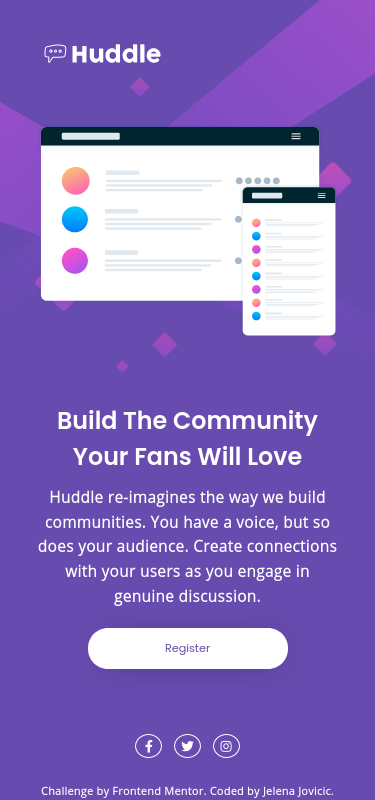
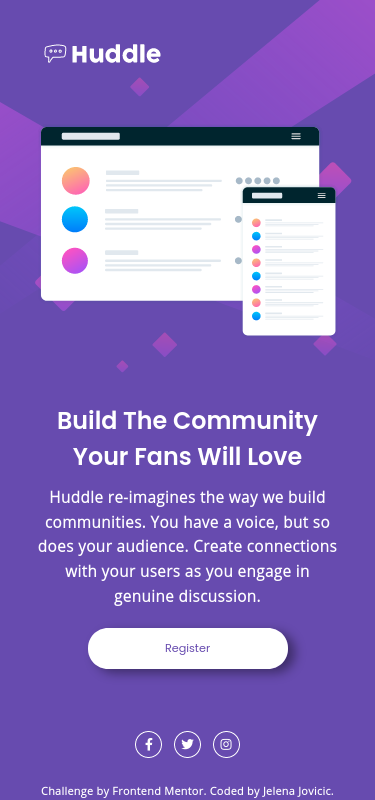
finish footer

diff --git a/styles.css b/styles.css
@@ -22,9 +22,7 @@ body {
     color: #fff;
 
     text-align: center;
-    font-size: 14px;
-
-    
+    font-size: 14px;  
 }
 
 .page {
@@ -69,7 +67,7 @@ p {
     font-size: 0.8em;
     text-align: center;
     margin: 20px auto;
-    box-shadow: 3px 2px 31px -17px #000;
+    box-shadow: 7px 4px 10px 0px rgba(0,0,0,0.4);
 }
 
 .button:hover {
@@ -78,16 +76,12 @@ p {
 }
 
 
-
 footer {
     position: fixed;
     bottom: 0;
     left: 0;
     width: 100%;
-    height: auto;
-
 }
-
 
 
 ul {
@@ -104,9 +98,13 @@ i {
     padding: 5px;
     margin: 4px;
     width: 27px;
+    height: 27px;
     color: #fff;
     border: 1px solid #fff;
     border-radius: 50%;
+    display: flex !important;
+    align-items: center;
+    justify-content: center;
 }
 
 i:hover {
@@ -116,6 +114,7 @@ i:hover {
 
 a {
     text-decoration: none;
+    display: inline-block;
 }
 
 footer p {
@@ -140,13 +139,11 @@ footer p {
     body {
         background: url(images/bg-desktop.svg), var(--violet);
         background-repeat: no-repeat;
-    background-size: 100%;
+        background-size: auto;
     }
 
    .flex-container {
        display: flex;
-       /* align-items: flex-start;
-       justify-content: center; */
        max-width: 1296px;
        margin: 0 auto;
    }
@@ -195,11 +192,7 @@ i {
     width: 38px;
     height: 38px;
     border-radius: 50%;
-    display: flex !important;
-    align-items: center;
-    justify-content: center;
-    text-decoration: none;
-    
+
 }
         
     }
